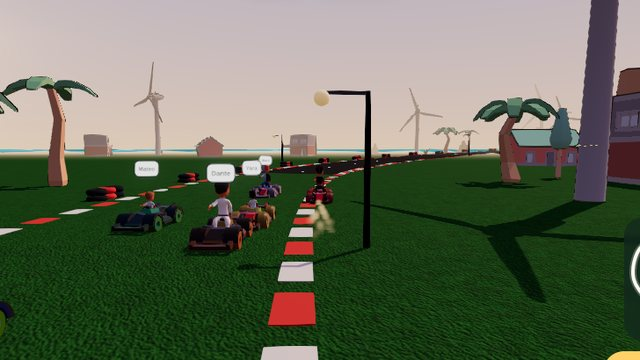
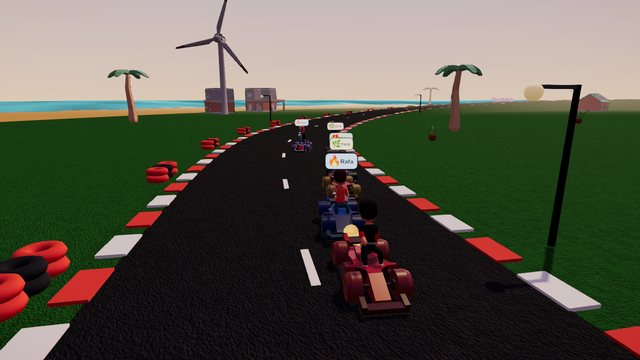
Island Drift: new tile art, hub copy for 4 tracks/cup/ghost (EN/ES), audit notes
Claude-Session: https://claude.ai/code/session_01FpsyMnPeC4bXvsibQmkif7

diff --git a/index.html b/index.html
@@ -405,7 +405,7 @@ const GAMES = [
   { id: 'depths', kind: '3D · CO-OP ROGUELITE', name: 'Pixel Pact: Depths', desc: 'Dive under the islands with AI allies or a second player. Eight rooms, boons that change every run, and a drowned captain to defeat.', meta: ['1–2 players', '10–15 min', 'Ages 10+'] , href: 'games/depths.html', st: 'PLAY', live: true, thumb: 'thumbs/depths.jpg' },
   { id: 'builders', kind: '3D · ISLAND SANDBOX', name: 'Driftwood Builders', desc: 'Gather driftwood, build a cozy island home, plant crops, sail a boat and share your island with a code.', meta: ['Solo', '10–30 min', 'Ages 8+'] , href: 'games/builders.html', st: 'PLAY', live: true, thumb: 'thumbs/builders.jpg' },
   { id: 'tide', kind: '3D · 4V4 TURF', name: 'Tide Lines', desc: 'Paint the pier with water cannons alongside three bots. Most ground when the horn sounds wins.', meta: ['Solo vs bots', '2.5 min', 'Ages 8+'] , href: 'games/tidelines.html', st: 'PLAY', live: true, thumb: 'thumbs/tidelines.jpg' },
-  { id: 'drift', kind: '3D · KART RACER', name: 'Island Drift', desc: 'Drift for mini-turbos, grab items and race five rivals on two island tracks, or chase your best lap.', meta: ['Solo vs 5 bots', '3 min'] , href: 'games/drift.html', st: 'PLAY', live: true, thumb: 'thumbs/drift.jpg' },
+  { id: 'drift', kind: '3D · KART RACER', name: 'Island Drift', desc: 'Drift for mini-turbos, grab items and race five rivals on four island tracks, win the Island Cup, or race the ghost of your best lap.', meta: ['Solo vs 5 bots', '3 min'] , href: 'games/drift.html', st: 'PLAY', live: true, thumb: 'thumbs/drift.jpg' },
   { id: 'fit', kind: 'COZY · ASMR', name: 'Perfect Fit', desc: 'A messy drawer, perfectly shaped slots, and a satisfying snap every time something lands. Zen mode for zoning out.', meta: ['Solo', '1–2 min'] , href: 'games/fit.html', st: 'PLAY', live: true, thumb: 'thumbs/fit.jpg' },
   { id: 'tray', kind: 'PARTY · PHYSICS', name: 'Fail Tray', desc: 'Carry a wobbling tower of food through an obstacle course. Falling is the funny part. Take turns with friends.', meta: ['1–4 players', '45 s'] , href: 'games/tray.html', st: 'PLAY', live: true, thumb: 'thumbs/tray.jpg' },
   { id: 'junk', kind: 'COZY · RESTORATION', name: 'Junkyard to Jewel', desc: 'Wash, sand, paint and polish rusty old rides with your finger and watch the shine come back.', meta: ['Solo', '2–4 min'] , href: 'games/junk.html', st: 'PLAY', live: true, thumb: 'thumbs/junk.jpg' },
@@ -499,7 +499,7 @@ const ES_GAMES = {
   depths: ['Bajo las islas con aliados o un segundo jugador. Ocho salas, mejoras distintas en cada partida y un capitán ahogado.', ['1–2 jugadores', '10–15 min', '10+ años']],
   builders: ['Recoge madera, construye un hogar en tu isla, siembra, navega y comparte tu isla con un código.', ['Solo', '10–30 min', '8+ años']],
   tide: ['Pinta el muelle con cañones de agua junto a tres bots. Gana quien tenga más terreno al sonar la bocina.', ['Solo vs bots', '2,5 min', '8+ años']],
-  drift: ['Derrapa para turbos, usa objetos y compite contra cinco rivales en dos pistas, o persigue tu mejor vuelta.', ['Solo vs 5 bots', '3 min']],
+  drift: ['Derrapa para turbos, usa objetos y compite contra cinco rivales en cuatro pistas, gana la Copa Isla o corre contra el fantasma de tu mejor vuelta.', ['Solo vs 5 bots', '3 min']],
   fit: ['Un cajón desordenado, huecos perfectos y un clic satisfactorio cada vez que algo encaja. Modo Zen para relajarte.', ['Solo', '1–2 min']],
   tray: ['Lleva una torre tambaleante de comida por una pista de obstáculos. Caerse es lo divertido. Turnos con amigos.', ['1–4 jugadores', '45 s']],
   junk: ['Lava, lija, pinta y pule coches viejos con el dedo y mira cómo vuelve el brillo.', ['Solo', '2–4 min']],

diff --git a/hub-src/hub.js b/hub-src/hub.js
@@ -7,7 +7,7 @@ const GAMES = [
   { id: 'depths', kind: '3D · CO-OP ROGUELITE', name: 'Pixel Pact: Depths', desc: 'Dive under the islands with AI allies or a second player. Eight rooms, boons that change every run, and a drowned captain to defeat.', meta: ['1–2 players', '10–15 min', 'Ages 10+'], st: 'PHASE 2' },
   { id: 'builders', kind: '3D · ISLAND SANDBOX', name: 'Driftwood Builders', desc: 'Gather driftwood, build a cozy island home, plant crops, sail a boat and share your island with a code.', meta: ['Solo', '10–30 min', 'Ages 8+'], st: 'PHASE 3' },
   { id: 'tide', kind: '3D · 4V4 TURF', name: 'Tide Lines', desc: 'Paint the pier with water cannons alongside three bots. Most ground when the horn sounds wins.', meta: ['Solo vs bots', '2.5 min', 'Ages 8+'], st: 'PHASE 3' },
-  { id: 'drift', kind: '3D · KART RACER', name: 'Island Drift', desc: 'Drift for mini-turbos, grab items and race five rivals on two island tracks, or chase your best lap.', meta: ['Solo vs 5 bots', '3 min'], st: 'PHASE 4' },
+  { id: 'drift', kind: '3D · KART RACER', name: 'Island Drift', desc: 'Drift for mini-turbos, grab items and race five rivals on four island tracks, win the Island Cup, or race the ghost of your best lap.', meta: ['Solo vs 5 bots', '3 min'], st: 'PHASE 4' },
   { id: 'fit', kind: 'COZY · ASMR', name: 'Perfect Fit', desc: 'A messy drawer, perfectly shaped slots, and a satisfying snap every time something lands. Zen mode for zoning out.', meta: ['Solo', '1–2 min'], st: 'PHASE 1' },
   { id: 'tray', kind: 'PARTY · PHYSICS', name: 'Fail Tray', desc: 'Carry a wobbling tower of food through an obstacle course. Falling is the funny part. Take turns with friends.', meta: ['1–4 players', '45 s'], st: 'PHASE 2' },
   { id: 'junk', kind: 'COZY · RESTORATION', name: 'Junkyard to Jewel', desc: 'Wash, sand, paint and polish rusty old rides with your finger and watch the shine come back.', meta: ['Solo', '2–4 min'], st: 'PHASE 2' },

diff --git a/hub-src/extras.js b/hub-src/extras.js
@@ -22,7 +22,7 @@ const ES_GAMES = {
   depths: ['Bajo las islas con aliados o un segundo jugador. Ocho salas, mejoras distintas en cada partida y un capitán ahogado.', ['1–2 jugadores', '10–15 min', '10+ años']],
   builders: ['Recoge madera, construye un hogar en tu isla, siembra, navega y comparte tu isla con un código.', ['Solo', '10–30 min', '8+ años']],
   tide: ['Pinta el muelle con cañones de agua junto a tres bots. Gana quien tenga más terreno al sonar la bocina.', ['Solo vs bots', '2,5 min', '8+ años']],
-  drift: ['Derrapa para turbos, usa objetos y compite contra cinco rivales en dos pistas, o persigue tu mejor vuelta.', ['Solo vs 5 bots', '3 min']],
+  drift: ['Derrapa para turbos, usa objetos y compite contra cinco rivales en cuatro pistas, gana la Copa Isla o corre contra el fantasma de tu mejor vuelta.', ['Solo vs 5 bots', '3 min']],
   fit: ['Un cajón desordenado, huecos perfectos y un clic satisfactorio cada vez que algo encaja. Modo Zen para relajarte.', ['Solo', '1–2 min']],
   tray: ['Lleva una torre tambaleante de comida por una pista de obstáculos. Caerse es lo divertido. Turnos con amigos.', ['1–4 jugadores', '45 s']],
   junk: ['Lava, lija, pinta y pule coches viejos con el dedo y mira cómo vuelve el brillo.', ['Solo', '2–4 min']],

diff --git a/docs/AUDIT.md b/docs/AUDIT.md
@@ -176,3 +176,34 @@ Measured with `node test/run.js <game> test/perf.js` in a 4-core container with 
 | pixelpact (2D) | — | — | 1 | 511 | 13.8 |
 
 Not included: three.js (~700 KB of modules from jsDelivr, cached by the service worker after the first game) and fonts. Models are shared between games, so the second game a player opens downloads far less. Vercel will also gzip/brotli the `.hdr`/`.json`.
+
+## Drift elevation pass (2026-10-15)
+Island Drift (`games/drift.html`) re-audited and extended by one game agent. Tested with `test/drift.js` at 1000×560 and 390×844 (both `NO_ERRORS`, screenshots reviewed), `test/party_drift.js` (online race to guest results, `NO_ERRORS`), hub `test/index.js` (`NO_ERRORS`), plus a Spanish-language pass.
+
+**Bugs fixed**
+- AI karts parked at sharp corners: the corner speed cap `skill × band × (1 − corner × 1.6)` went negative on hairpins, so karts reversed and stalled (baseline race ended with AI laps `[2,0,0,1,0]`). Cap is now clamped to ≥ 0.5; every AI now finishes 2+ laps when the player wins (`laps [3,2,2,2,2,2]`, `stuck 0`).
+- Road sank under the grass just after the start line (spline overshoot: −0.20 m on Sunset Coast, −0.52 m on Lantern Harbor), so karts looked like they drove on grass (visible in the old tile art). Heights are clamped to ≥ 0.
+- Raised road floated in the air: embankments now slope from the road edge to the ground; lamps and tire walls stand on the slope; karts off the road follow the slope height.
+- Reversing over the finish line took a lap back but never re-armed the half-way flag, so the next real crossing was not counted (a whole lap lost).
+- Drift camera: it chased the kart's heading while the kart travels along heading + slip, so drifts slid the kart to the frame edge. The camera now follows the travel direction; the kart stays centred (projected x −0.10 landscape / −0.25 portrait mid-drift, NDC; was near the edge) and portrait pulls back a little.
+- Title card overflowed 560 px landscape: two-column layout on short landscape screens (card 44–516 px of 560, no scroll); portrait keeps Hub/Play in a sticky bar.
+- Empty item slot showed a lone "·" → faded 🎁 slot; AI name tags carry a personality emoji on a tinted pill.
+- No rescue for a stuck player (only AI recovered): player/phone karts are put back on the road after 2.5 s stuck or a few seconds off-road (3.5 s on Easy). "Wrong way!" banner + read-aloud.
+- Lap 1 time now starts at the line (it included the grid run-up), so the time-trial ghost lines up.
+- Particles froze during the finish sequence (updated only while racing).
+
+**Added**
+- 2 new tracks (4 total): **Harvest Hills** (rolling farm hills, pumpkins, tractors, hay bales) and **Frosty Peaks** (figure-eight with a snowy bridge over the lower road: pillars, rails, karts on different levels never collide; instanced pines + snowmen, falling snow). New models in the pack: `low-poly-tree`, `tractor`, `pumpkin`, `formation-stone` (pack 1.87 → 2.10 MB; all already in `packs/assets`).
+- **Time-trial ghost**: best lap per track recorded at 12 Hz, stored on the device (`inoa.drift.ghost.<track>`), replayed as a translucent kart with a 👻 tag and on the minimap; lap toast shows ± vs the ghost.
+- **Island Cup**: the 4 tracks back to back, points 10/8/6/5/4/3, standings card after each race (EN/ES, read aloud, gamepad focus), `E.results` at the end (XP scaled to races run; quitting early still pays).
+- **AI personalities**: Bold (🔥 faster, chases the kart ahead, drifts and fires items quickly), Careful (🌿 clean centre line, slows for corners, saves shields/boosts), Item lover (🎁 uses items at once), All-rounder (⭐).
+- **Difficulty**: Easy (default; front row, rivals wait for you, gentle off-road/coconut penalties), Normal (mid-pack), Hard (back of the grid, faster rivals). Autopilot check: Easy wins by most of a lap, Normal close, Hard 2nd–6th.
+- Juice: mini-turbo bursts, boost exhaust, coconut/shield/bump/wall sparks, confetti + fireworks at the finish, orbit camera after the finish (off with reduced motion). Full EN/ES for every string; read-aloud for start, final lap, finish, wrong way, cup standings.
+- Hub tile copy (EN/ES) and `thumbs/drift.jpg` refreshed.
+
+**Still open**
+- Real-device feel/FPS (headless only). Snow (700 points) and the new instanced scenery should be cheap, but unmeasured on a 2021 phone.
+- Ghost/cup are offline only; online races stay single Grand Prix (guests get no ghost).
+- Bridge ends are plain slab abutments; no jump/air physics (height simply follows the road).
+- Autopilot is a weak stand-in for a human; difficulty numbers need a real play test with kids and adults.
+- Engine: none changed. `tag()` with an emoji is still drawn at 96 px serif, so on systems without a colour-emoji font the tag shows text only.
